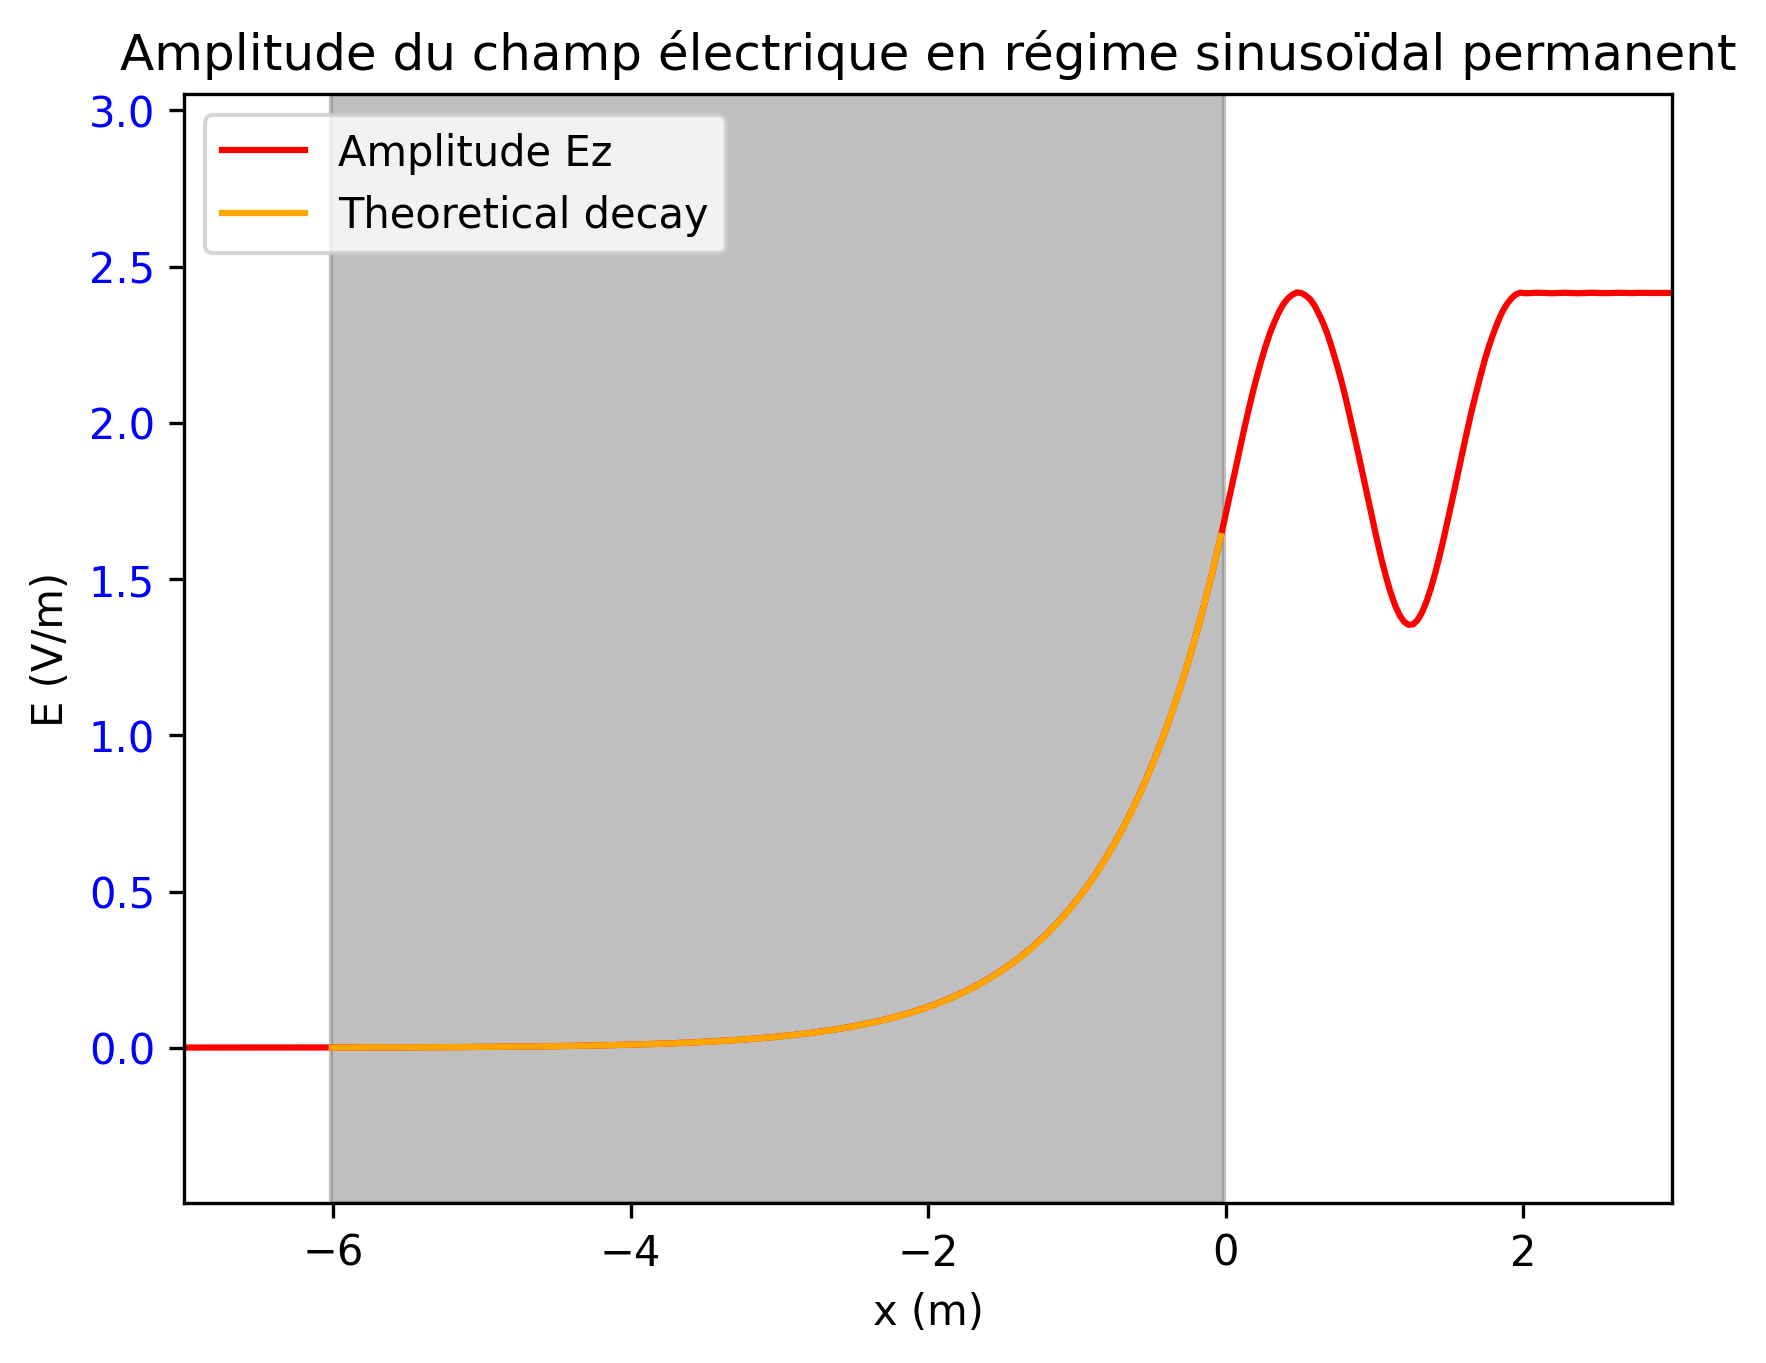
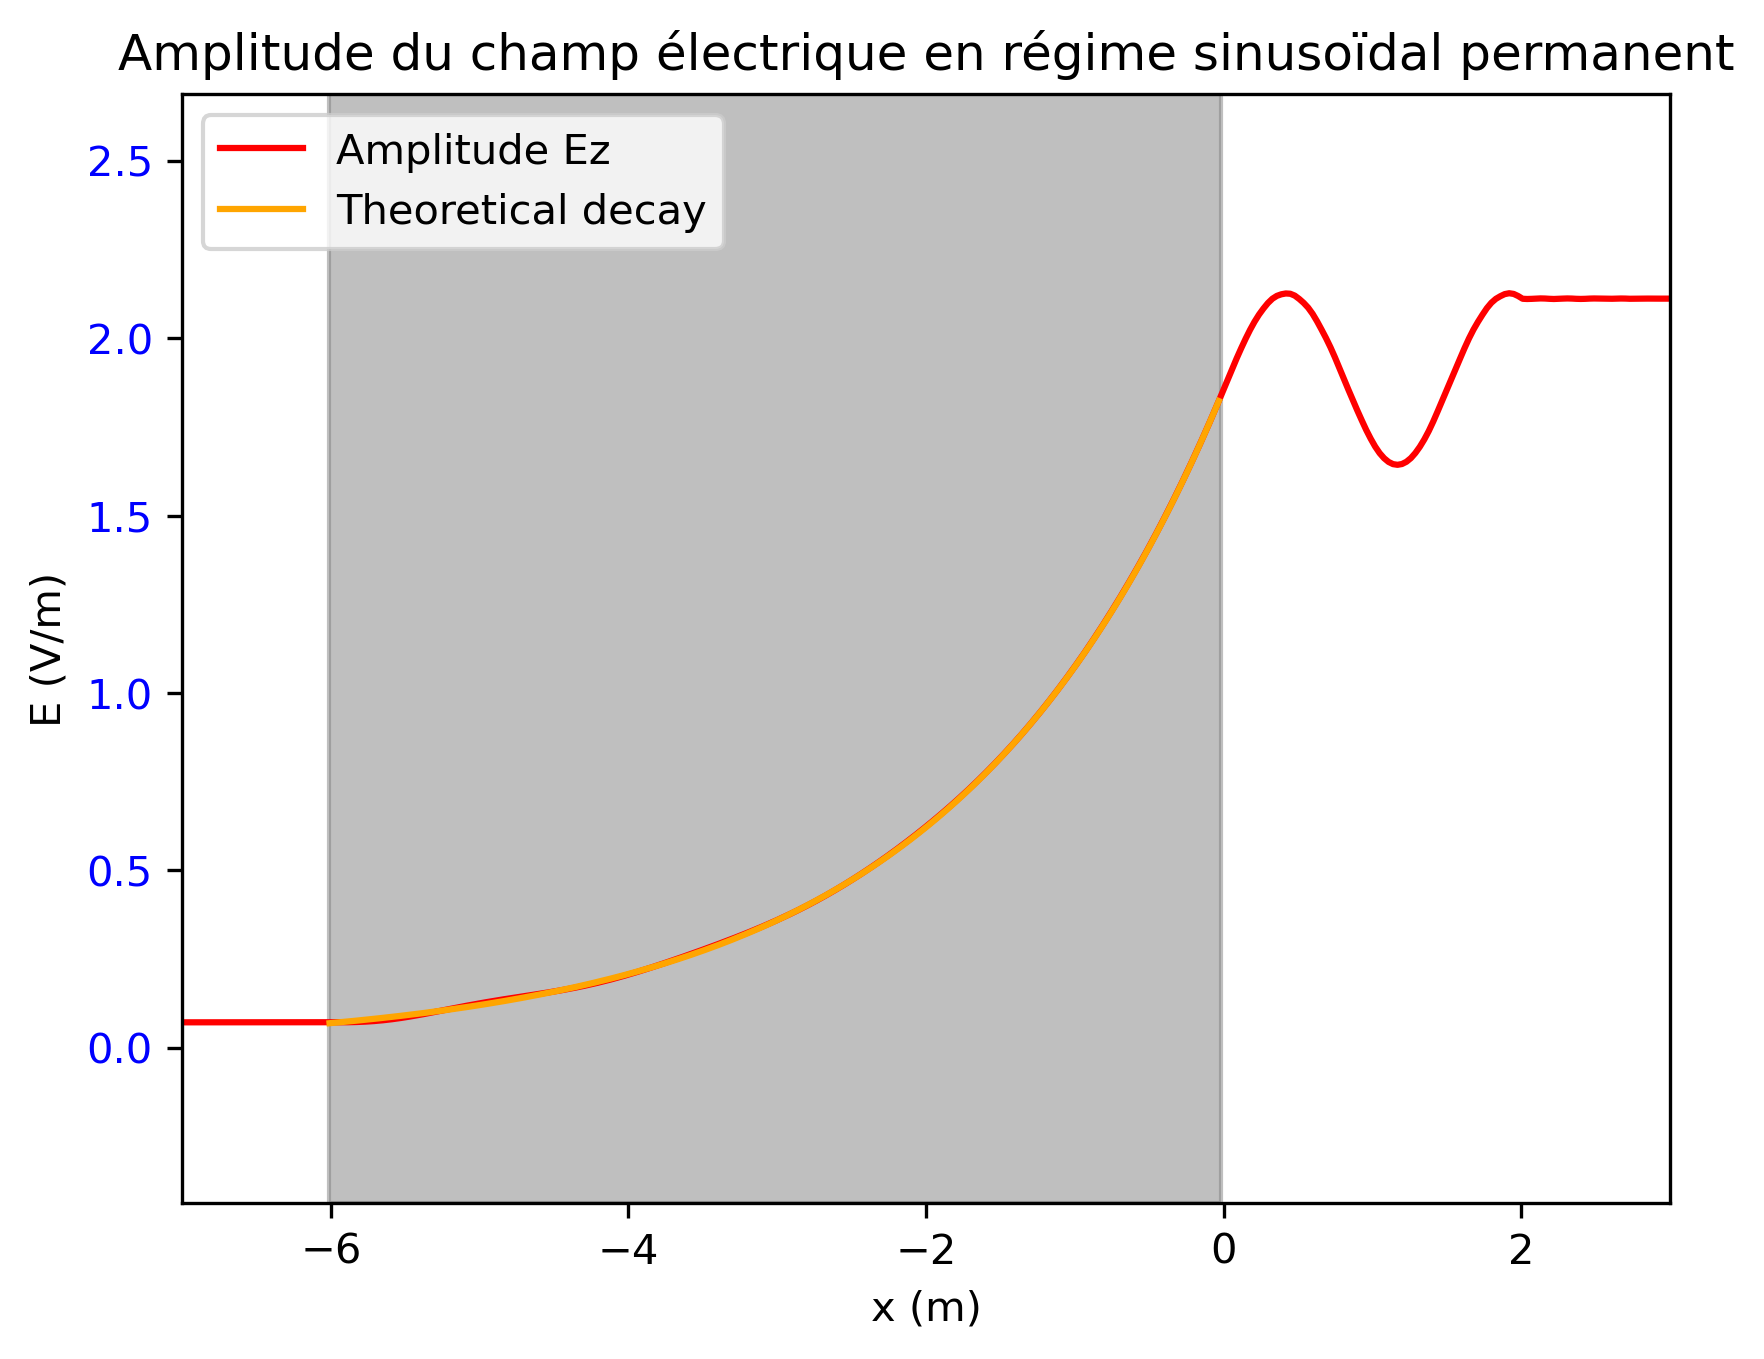
put back the values of the repport

diff --git a/1D/1D_main_conductivity_validation.py b/1D/1D_main_conductivity_validation.py
@@ -16,7 +16,7 @@ FREQ_REF = 1e8  # Hz
 Q = 20000  # number of time samples
 COND_START = 1  # in meters
 COND_END = 7  # in meters
-CONDUCTIVITY = 0.008  # in S/m
+CONDUCTIVITY = 0.003  # in S/m
 REL_PERMITTIVITY = 1  # in F/m
 SOURCE_POS = 9  # in meters
 
